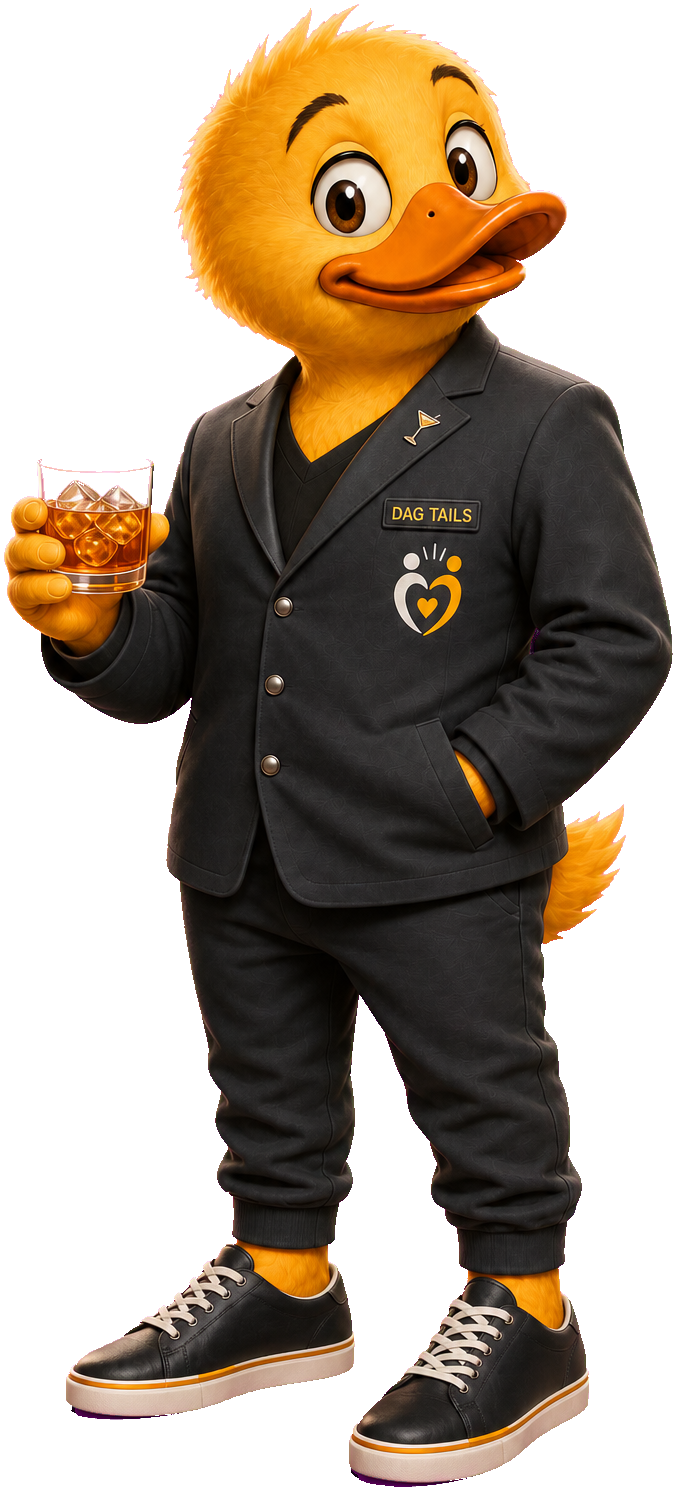
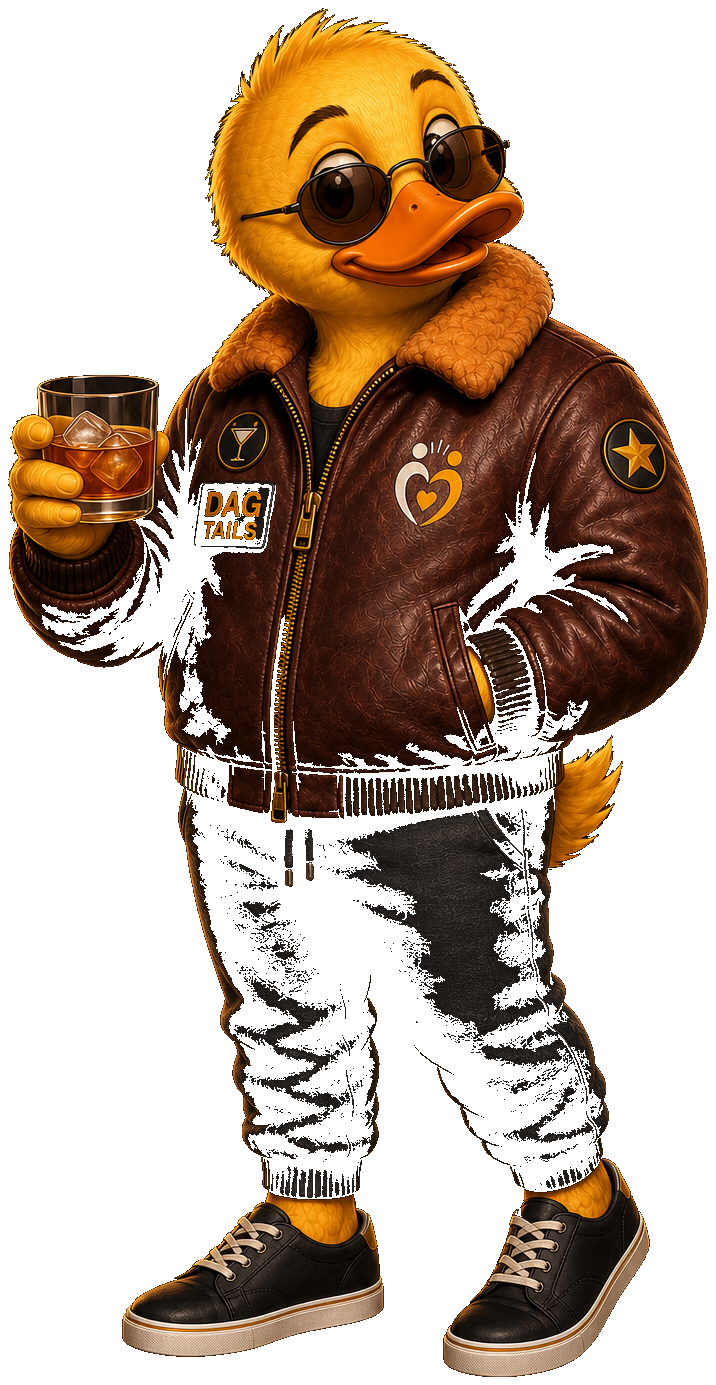
v1.16.29 - clear beta lock after OTP so splash can show, and refresh skipper jacket asset

diff --git a/tests/beta-gate.spec.js b/tests/beta-gate.spec.js
@@ -14,8 +14,89 @@ test.describe("beta gate", () => {
     skipIfPortrait(testInfo);
     await page.goto("/?betaLock=1");
     await expect(page.locator("#screen-beta.is-active")).toBeVisible({ timeout: 20_000 });
+    await expect(page.locator("html")).toHaveClass(/is-beta-lock/);
     await expect(page.locator("#beta-email")).toBeVisible();
     await expect(page.locator("#screen-start.is-active")).toHaveCount(0);
     await expect(page.locator("#btn-splash-continue")).toBeHidden();
+  });
+
+  test("after OTP verify, is-beta-lock is cleared so splash is visible", async ({ page }, testInfo) => {
+    skipIfPortrait(testInfo);
+
+    await page.route(/\/auth\/v1\//, async (route) => {
+      const req = route.request();
+      const url = req.url();
+      const method = req.method();
+      if (method === "GET" && /\/user(\?|$)/.test(url)) {
+        return route.fulfill({
+          status: 200,
+          contentType: "application/json",
+          body: JSON.stringify({ id: "u_test", email: "tester@example.com" }),
+        });
+      }
+      if (method === "GET" && /session|user/i.test(url)) {
+        return route.fulfill({
+          status: 200,
+          contentType: "application/json",
+          body: JSON.stringify({ access_token: null, user: null }),
+        });
+      }
+      // OTP send (signInWithOtp)
+      if (method === "POST" && /\/otp(\?|$)/.test(url)) {
+        return route.fulfill({
+          status: 200,
+          contentType: "application/json",
+          body: JSON.stringify({ messageId: "mock" }),
+        });
+      }
+      // OTP verify
+      if (method === "POST" && /\/verify(\?|$)/.test(url)) {
+        return route.fulfill({
+          status: 200,
+          contentType: "application/json",
+          headers: { "content-type": "application/json" },
+          body: JSON.stringify({
+            access_token: "eyJhbGciOiJub25lIn0.test",
+            token_type: "bearer",
+            expires_in: 3600,
+            expires_at: Math.floor(Date.now() / 1000) + 3600,
+            refresh_token: "refresh_test",
+            user: {
+              id: "u_test",
+              aud: "authenticated",
+              role: "authenticated",
+              email: "tester@example.com",
+              app_metadata: { provider: "email" },
+              user_metadata: {},
+            },
+          }),
+        });
+      }
+      return route.fulfill({ status: 200, contentType: "application/json", body: "{}" });
+    });
+
+    await page.route(/\/rest\/v1\/rpc\/beta_access_ok/, async (route) => {
+      return route.fulfill({
+        status: 200,
+        contentType: "application/json",
+        body: "true",
+      });
+    });
+
+    await page.goto("/?betaLock=1");
+    await expect(page.locator("#screen-beta.is-active")).toBeVisible({ timeout: 20_000 });
+    await expect(page.locator("html")).toHaveClass(/is-beta-lock/);
+
+    await page.locator("#beta-privacy").check();
+    await page.locator("#beta-email").fill("tester@example.com");
+    await page.locator("#beta-send").click();
+    await expect(page.locator("#beta-step-code")).toBeVisible({ timeout: 15_000 });
+
+    await page.locator("#beta-code").fill("123456");
+    await page.locator("#beta-verify").click();
+
+    await expect(page.locator("html")).not.toHaveClass(/is-beta-lock/, { timeout: 15_000 });
+    await expect(page.locator("#screen-splash.is-active")).toBeVisible({ timeout: 15_000 });
+    await expect(page.locator("#btn-splash-continue")).toBeVisible();
   });
 });

diff --git a/docs/legal/pack-counsel-review.js b/docs/legal/pack-counsel-review.js
@@ -180,7 +180,7 @@ This is a clearance and documents pack for a **private beta** of a web bartendin
 | Item | In the live game? | Ask |
 |---|---|---|
 | Wordmark **DAG Tails** / **DAG TAILS** | Yes — logo, splash, hub | Clearance to use; search/file classes (games, entertainment, maybe later merch). Watch **Bacardi** Madrid IR 1572190 (feathers + the word TAILS, cl. 32/33) if we ever put TAILS on drinks goods. |
-| Duck mascot (hoodie / service jacket / Ace bomber) | Yes — \`brand-images/\` | Original character? Any Disney DuckTales-like trade dress left? (Old painted gold-brush wordmarks were deleted.) |
+| Duck mascot (hoodie / skipper bomber / Ace bomber) | Yes — \`brand-images/\` | Original character? Any Disney DuckTales-like trade dress left? (Old painted gold-brush wordmarks were deleted.) |
 | Ace gold teardrop sunglasses | Yes — Ace / splash | **Closed in-house.** Generic aviator frames, no temple/lens logo. Operator-approved. |
 | Mascot sneakers | Yes — hoodie / jacket / Ace | **Closed in-house.** Thin foxing line in the rubber sole only. No Vans jazz stripe on the upper. |
 | Invented DAG patches on the bomber | Yes | Keep if original. |
@@ -191,7 +191,7 @@ This is a clearance and documents pack for a **private beta** of a web bartendin
 |---|---|---|
 | Top Gun / Maverick jacket study (name tapes, patches) | Quarantined under \`mocks/\` — **not** copied into \`assets/\` | Confirm: never ship, never composite onto Ace. |
 | Old DuckTales-like painted title explorations | Deleted from the live splash | Confirm live logo in \`brand-images/dag-tails-logo.png\` is far enough from Disney gold-brush + teal 3D + feather underline. |
-| Horse / K9 / ape mascot studies | \`mocks/mascot-alts/\` only | Confirm: mocks-only is enough; do not put them on hub/map. |
+| Horse / K9 / ape / rabbit / bear mascot studies | \`mocks/mascot-alts/\`, \`mocks/horse-judges/\`, \`mocks/rabbit-judges/\`, \`mocks/bear-judges/\` only | Confirm: mocks-only is enough; do not put them on hub/map. |
 
 ### 3. Cocktail, venue, and ingredient names (live catalog)
 
@@ -384,7 +384,7 @@ These are the files actually used on hub / splash / rank-up. Mocks (horses, K9s,
 
 - \`dag-tails-logo.png\` — current wordmark
 - \`duck-hub-mascot.png\` — hoodie guide
-- \`duck-hub-mascot-jacket.png\` — service-jacket rank
+- \`duck-hub-mascot-jacket.png\` — skipper bomber rank (DAG tapes, shearling G-1; not the house service jacket)
 - \`duck-hub-mascot-ace.png\` — Ace bomber. Generic gold aviators (no temple logo). Plain cupsole sneakers (foxing line only, no jazz stripe).
 `
 );

diff --git a/beta-gate.js b/beta-gate.js
@@ -22,6 +22,17 @@ function showStep(step) {
   }
 }
 
+/** Drop the fail-closed CSS lock so splash/hub can show after a valid session. */
+function unlockBetaUi() {
+  try {
+    document.documentElement.classList.remove("is-beta-lock");
+  } catch {
+    /* non-browser */
+  }
+  const screen = $("#screen-beta");
+  if (screen) screen.classList.remove("is-active");
+}
+
 function friendlyError(err) {
   const raw = err && err.message ? err.message : String(err || "");
   const code = err && err.code ? String(err.code) : "";
@@ -51,7 +62,10 @@ export async function ensureBetaAccess() {
   }
 
   const restored = await Backend.restoreBetaSession();
-  if (restored.ok) return true;
+  if (restored.ok) {
+    unlockBetaUi();
+    return true;
+  }
 
   setText($("#beta-error"), restored.reason === "gate_missing" ? friendlyError({ message: "gate_missing" }) : "");
   showStep("email");
@@ -63,9 +77,10 @@ export async function ensureBetaAccess() {
     const back = $("#beta-back");
     let pendingEmail = "";
     let busy = false;
+    let admitted = false;
 
     async function sendCode(email) {
-      if (busy) return;
+      if (busy || admitted) return;
       busy = true;
       setText($("#beta-error"), "");
       const sendBtn = $("#beta-send");
@@ -81,7 +96,7 @@ export async function ensureBetaAccess() {
         setText($("#beta-error"), friendlyError(e));
       } finally {
         busy = false;
-        if (sendBtn) sendBtn.disabled = false;
+        if (sendBtn && !admitted) sendBtn.disabled = false;
       }
     }
 
@@ -97,19 +112,21 @@ export async function ensureBetaAccess() {
 
     codeForm?.addEventListener("submit", async (ev) => {
       ev.preventDefault();
-      if (busy) return;
+      if (busy || admitted) return;
       busy = true;
       setText($("#beta-error"), "");
       const goBtn = $("#beta-verify");
       if (goBtn) goBtn.disabled = true;
       try {
         await Backend.verifyBetaOtp(pendingEmail, $("#beta-code") && $("#beta-code").value);
+        admitted = true;
+        unlockBetaUi();
         resolve(true);
       } catch (e) {
         setText($("#beta-error"), friendlyError(e));
+        if (goBtn) goBtn.disabled = false;
       } finally {
         busy = false;
-        if (goBtn) goBtn.disabled = false;
       }
     });
 

diff --git a/styles.css b/styles.css
@@ -5692,7 +5692,7 @@ body.is-phone-play .chip {
     linear-gradient(180deg, #120b1f 0%, #140d22 44%, #0c0814 100%);
 }
 /* Shared rank-based mascot: the apprentice duck visually levels up as the
-   player climbs ranks (hoodie -> flight jacket -> "ace" look). */
+   player climbs ranks (hoodie -> skipper bomber -> "ace" look). */
 .mascot-duck {
   background-image: url("assets/duck-hub-mascot.png");
   background-position: center bottom;

diff --git a/game.js b/game.js
@@ -745,7 +745,7 @@ function nextRewardCopy(map, prog) {
 
 // The apprentice duck mascot visually levels up as the player climbs bartender
 // titles (still paced by cleared stages, independent of crawl venues):
-// hoodie -> house service jacket -> full "ace" look.
+// hoodie -> skipper shearling bomber -> full "ace" look.
 function mascotTierClass(rankIdx) {
   if (rankIdx >= 5) return "tier-3";
   if (rankIdx >= 2) return "tier-2";

diff --git a/docs/player-reports/SETUP.md b/docs/player-reports/SETUP.md
@@ -8,11 +8,16 @@ The Action `.github/workflows/player-report.yml` needs a secret that can **read*
 
 ## Secret
 
-1. In Supabase: **Project Settings → Database → Connection string** (URI).
-2. Use the **direct** connection (port `5432`) or **session** pooler. Transaction pooler (port `6543`) can fail this query.
-3. In GitHub: **Settings → Secrets and variables → Actions → New repository secret**
+The URI is **not** under Project Settings → Database anymore (that page is mostly password reset).
+
+1. Open the **dag-tails** project: https://supabase.com/dashboard/project/suhrxksuwjsfeenztvdn  
+2. Click **Connect** at the top of the dashboard (green button next to the project name), or open:  
+   https://supabase.com/dashboard/project/suhrxksuwjsfeenztvdn?showConnect=true&method=session  
+3. Copy the **Session pooler** URI (port `5432`). Direct (`db.…:5432`) is fine if your network supports it. Do **not** use Transaction pooler (port `6543`) — that can fail this query.  
+4. If the URI shows `[YOUR-PASSWORD]`, replace it with the database password. Forgot it? **Project Settings → Database** → **Reset database password**, then paste the new password into the URI.  
+5. In GitHub: **Settings → Secrets and variables → Actions → New repository secret**
    - Name: `SUPABASE_DB_URL`
-   - Value: the Postgres URI (includes the database password)
+   - Value: the full `postgresql://…` URI (password included)
 
 Then **Actions → Player report → Run workflow** once to confirm. After that it runs every day at 07:00 UTC.
 
